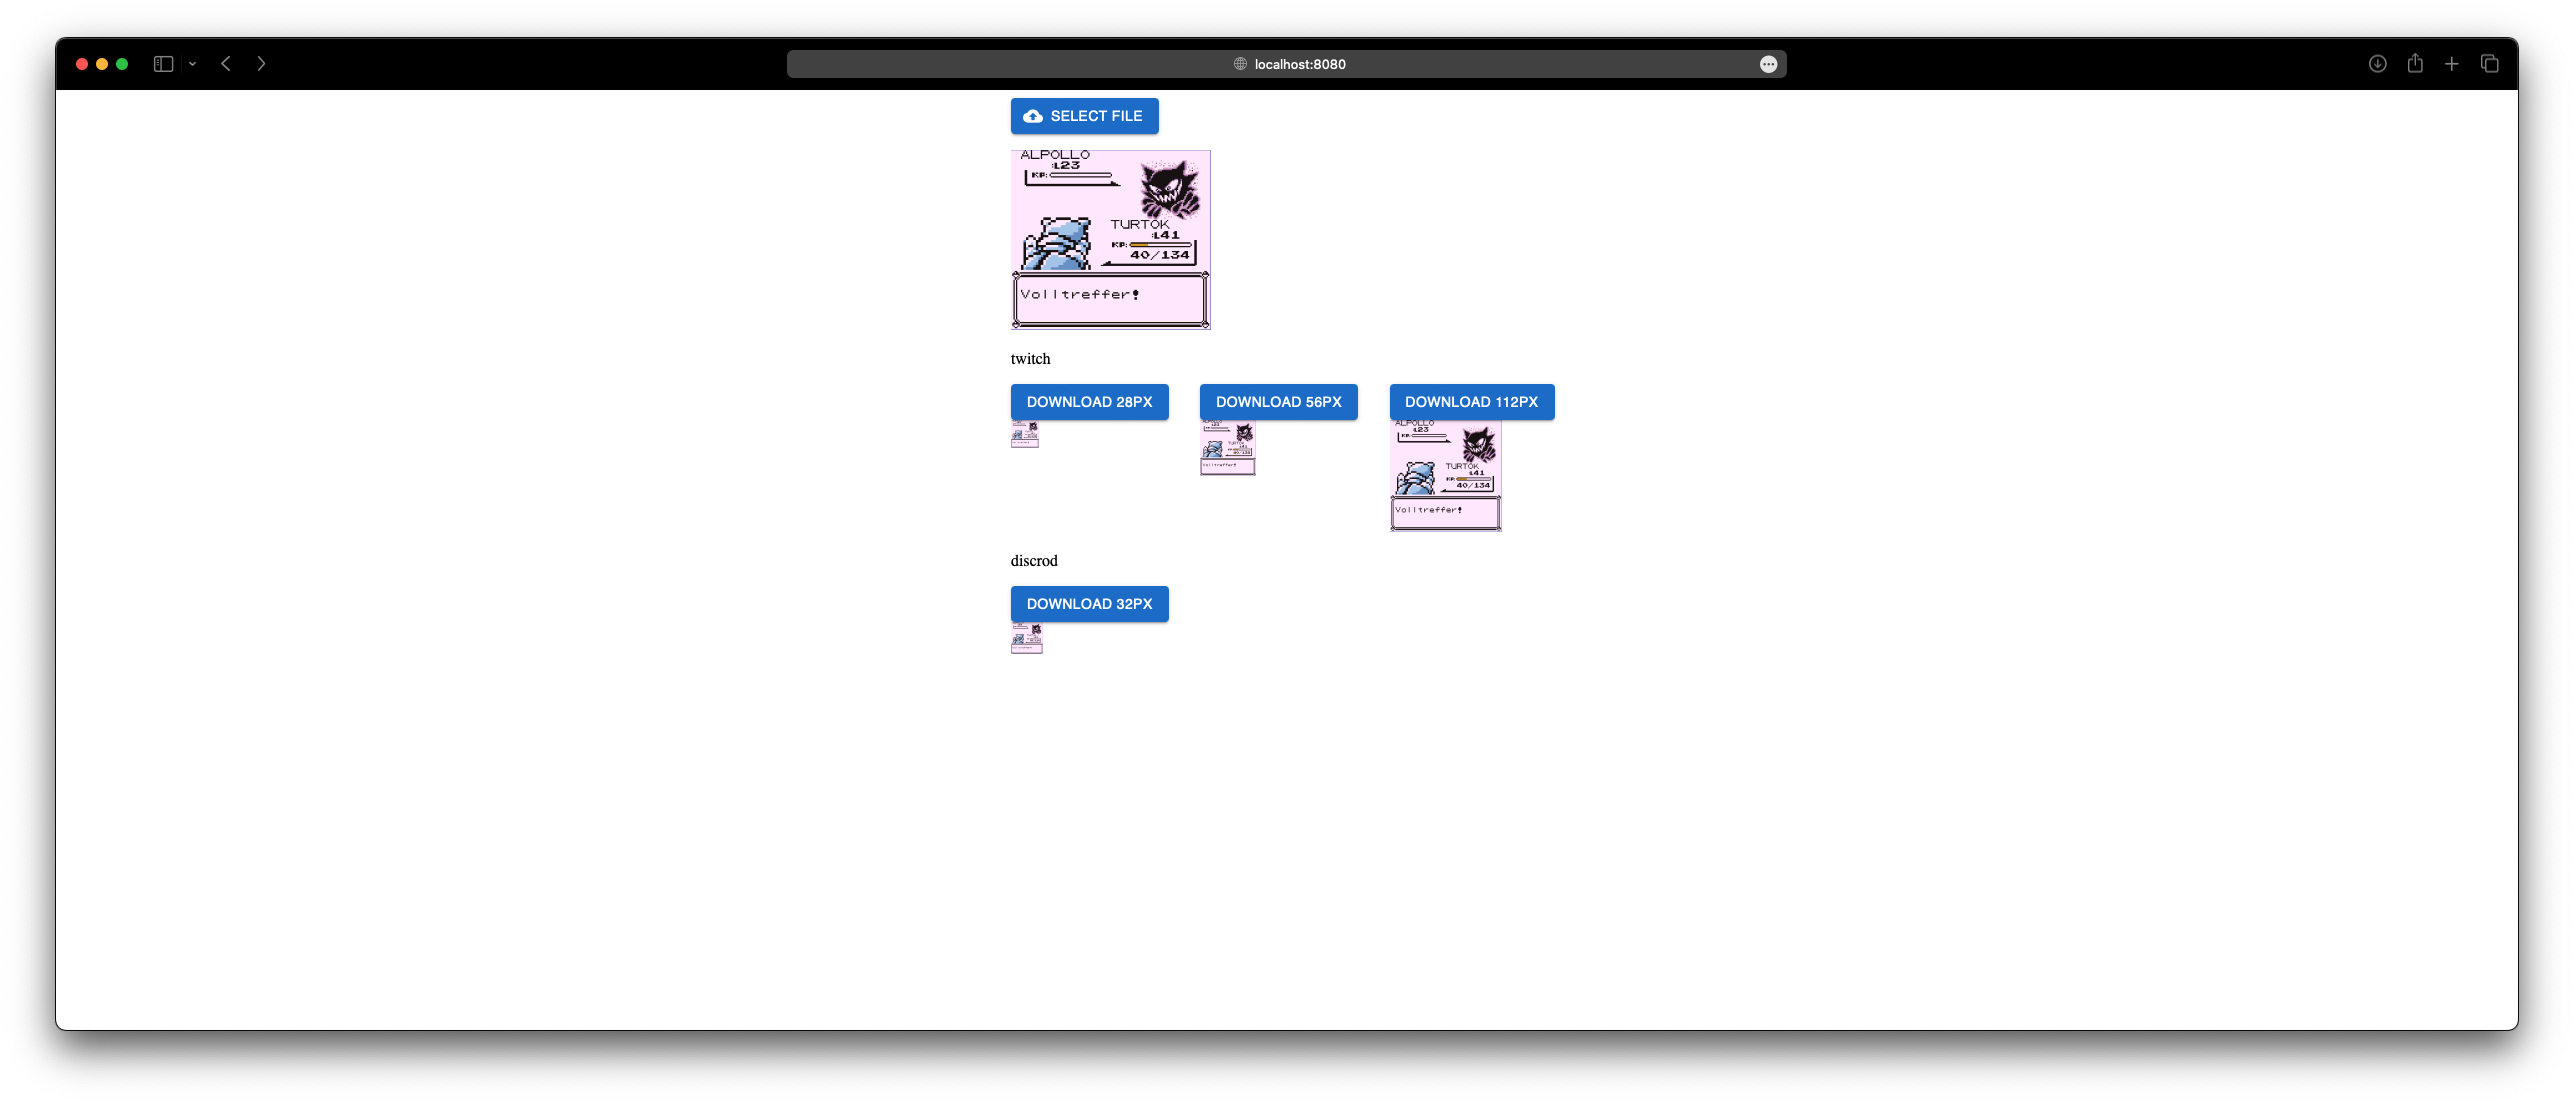
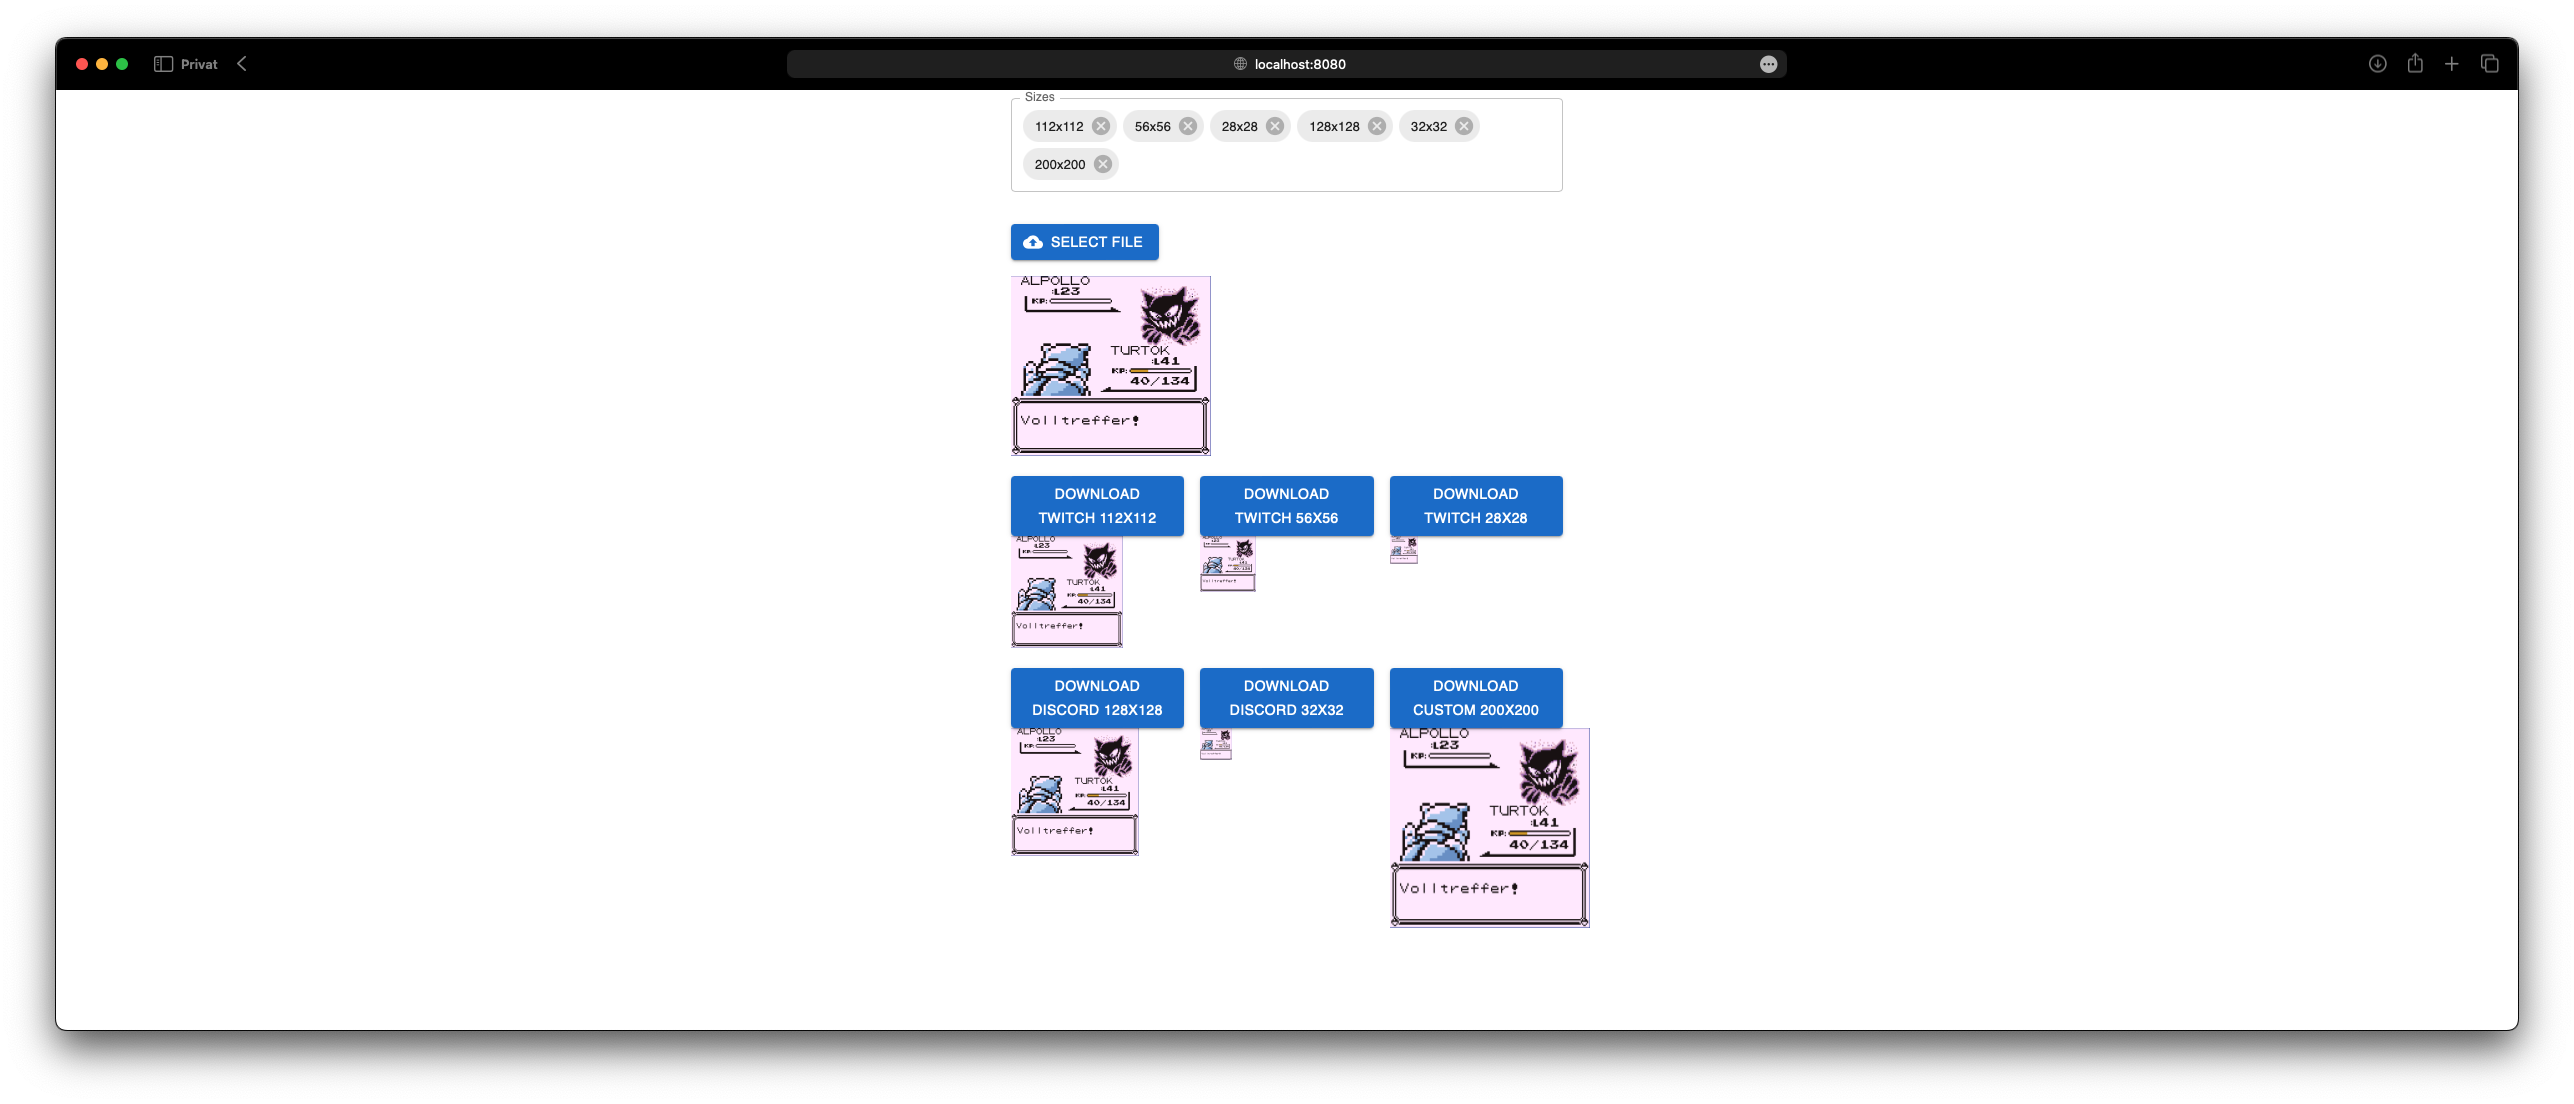
added ability to select resize sizes and add own sizes

Changed region(s): [[0.3108, 0.0308, 0.7148, 0.8623]]

diff --git a/src/EmoteConverter.tsx b/src/EmoteConverter.tsx
@@ -1,18 +1,15 @@
 import React from 'react';
 import {Button, Grid} from '@mui/material';
 import Pica from 'pica';
+import {SizeOption} from './SizeSelector';
 
 interface PropsInterface {
     image: string;
-};
+    sizes: SizeOption[];
+}
 
 const EmoteConverter = (props: PropsInterface) => {
-    const sizes = {
-        twitch: [28, 56, 112],
-        discord: [32],
-    };
-
-    const downloadEmote = (size: number) => {
+    const downloadEmote = (height: number, width: number) => {
         const canvas = document.createElement('canvas');
         const ctx = canvas.getContext('2d');
         const img = new Image();
@@ -21,27 +18,24 @@ const EmoteConverter = (props: PropsInterface) => {
         img.crossOrigin = 'Anonymous';
 
         img.onload = async () => {
-            canvas.width = size;
-            canvas.height = size;
+            canvas.height = height;
+            canvas.width = width;
             ctx!.imageSmoothingEnabled = false;
 
             const resizedImage = await pica.resize(img, canvas, {
                 filter: 'mks2013'
             });
 
-            ctx!.drawImage(resizedImage, 0, 0, size, size);
+            ctx!.drawImage(resizedImage, 0, 0, width, height);
 
             const downloadLink = document.createElement('a');
             downloadLink.href = canvas.toDataURL(`image/${props.image.split(';')[0].split('/')[1]}`);
-            downloadLink.download = `emote_${size}.${props.image.split(';')[0].split('/')[1]}`;
+            downloadLink.download = `emote_${height}_${width}.${props.image.split(';')[0].split('/')[1]}`;
             downloadLink.click();
         };
 
         img.src = props.image;
     };
-
-
-
 
     return (
     <Grid
@@ -49,38 +43,24 @@ const EmoteConverter = (props: PropsInterface) => {
         spacing={2}
     >
         {
-            Object.entries(sizes).map(([key, value]) => (
-                <React.Fragment
-                    key={key}
+            props.sizes.map(entry => (
+                <Grid
+                    item
+                    xs={4}
+                    key={`${entry.size.height}x${entry.size.width}`}
                 >
-                    <Grid
-                        item
-                        xs={12}
+                    <Button
+                        variant='contained'
+                        onClick={() => downloadEmote(entry.size.height, entry.size.width)}
                     >
-                        {key}
-                    </Grid>
-                    {
-                        value.map((size) => (
-                            <Grid
-                                item
-                                xs={4}
-                                key={size}
-                            >
-                                <Button
-                                    variant='contained'
-                                    onClick={() => downloadEmote(size)}
-                                >
-                                    Download {size}px
-                                </Button>
-                                <img
-                                    src={props.image}
-                                    alt={`Emote ${size}`}
-                                    style={{ width: `${size}px`, height: `${size}px` }}
-                                />
-                            </Grid>
-                        ))
-                    }
-                </React.Fragment>
+                        Download {entry.group} {entry.size.height}x{entry.size.width}
+                    </Button>
+                    <img
+                        src={props.image}
+                        alt={`Emote ${entry.size.height}x${entry.size.width}`}
+                        style={{ height: `${entry.size.height}px`, width: `${entry.size.width}px` }}
+                    />
+                </Grid>
             ))
         }
     </Grid>

diff --git a/src/SizeSelector.tsx b/src/SizeSelector.tsx
@@ -1,0 +1,74 @@
+import React from 'react';
+import {Autocomplete, Grid, TextField} from '@mui/material';
+
+interface PropsInterface {
+    sizes: SizeOption[];
+    onChange: (sizes: SizeOption[]) => void;
+}
+
+interface Size {
+    height: number;
+    width: number;
+}
+
+export interface SizeOption {
+    group: string;
+    size: Size;
+}
+
+export const defaultSizes: SizeOption[] = [
+    {group: 'twitch', size: {height: 112, width: 112} },
+    {group: 'twitch', size: {height: 56, width: 56} },
+    {group: 'twitch', size: {height: 28, width: 28} },
+    {group: 'discord', size: {height: 128, width: 128} },
+    {group: 'discord', size: {height: 32, width: 32} },
+];
+
+const SizeSelector = (props: PropsInterface) => {
+    return (
+        <Grid
+            container
+            spacing={2}
+        >
+            <Grid
+                item
+                xs={12}
+            >
+                <Autocomplete
+                    multiple
+                    freeSolo
+                    value={props.sizes}
+                    options={defaultSizes}
+                    getOptionLabel={option => typeof option === 'string' ? option : `${option.size.height}x${option.size.width}`}
+                    groupBy={(option) => option.group}
+                    onChange={(event, newValue, reason, details) => {
+                        if (typeof details?.option === 'string' && /^\d+x\d+$/.test(details.option)) {
+                            const [height, width] = (details.option as string).split('x');
+                            props.onChange([
+                                ...props.sizes,
+                                {
+                                    group: 'custom',
+                                    size: {
+                                        height: Number(height),
+                                        width: Number(width)
+                                    }
+                                }
+                            ]);
+                        } else if (typeof details?.option !== 'string') {
+                            props.onChange(newValue as SizeOption[]);
+                        }
+                    }}
+                    renderInput={(params) => <TextField {...params} label='Sizes' />}
+                />
+            </Grid>
+            <Grid
+                item
+                xs={6}
+            >
+
+            </Grid>
+        </Grid>
+    );
+};
+
+export default SizeSelector;

diff --git a/src/App.tsx b/src/App.tsx
@@ -3,9 +3,11 @@ import {Button, Container, Grid} from '@mui/material';
 import CloudUploadIcon from '@mui/icons-material/CloudUpload';
 import EmoteConverter from './EmoteConverter';
 import HiddenInput from './HiddenInput';
+import SizeSelector, {defaultSizes as SizeSelectorDefaultSizes, SizeOption} from './SizeSelector';
 
 const App = () => {
     const [originalImage, setOriginalImage] = React.useState<string| undefined>(undefined);
+    const [sizes, setSizes] = React.useState<SizeOption[]>(SizeSelectorDefaultSizes);
 
     const handleImageUpload = (event: React.ChangeEvent<HTMLInputElement>) => {
         const file =event.target.files?.item(0);
@@ -28,14 +30,19 @@ const App = () => {
             <Grid
                 container
                 spacing={2}
-                alignContent='center'
-                alignItems='center'
             >
                 <Grid
                     item
                     xs={12}
-                    alignContent='center'
-                    alignItems='center'
+                >
+                    <SizeSelector
+                        sizes={sizes}
+                        onChange={setSizes}
+                    />
+                </Grid>
+                <Grid
+                    item
+                    xs={12}
                 >
                     <Button
                         component='label'
@@ -72,6 +79,7 @@ const App = () => {
                         >
                             <EmoteConverter 
                                 image={originalImage}
+                                sizes={sizes}
                             />
                         </Grid>
                     ) : null
